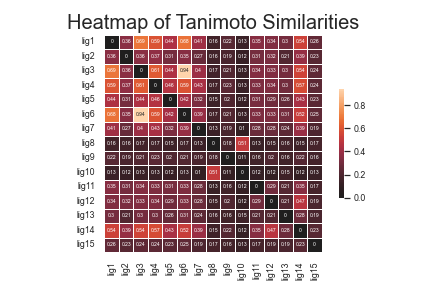
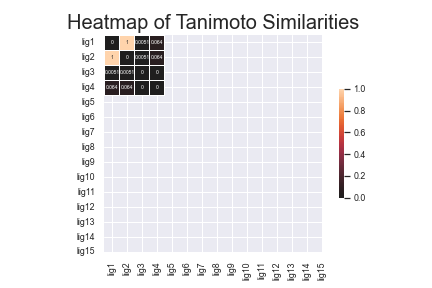
update

diff --git a/onlyGpu 2.py b/onlyGpu 2.py
@@ -23,7 +23,7 @@ np.set_printoptions(threshold=sys.maxsize)
 
 # Reading the input CSV file.
 
-ligands_df = pd.read_csv("smiles.csv" , index_col=0 )
+ligands_df = pd.read_csv("smiles1.1.csv" , index_col=0 )
 #print(ligands_df.head())
 
 
@@ -48,6 +48,7 @@ molecules[:10000]
 rdkit_gen = rdFingerprintGenerator.GetRDKitFPGenerator(maxPath=7)
 fgrps = [rdkit_gen.GetFingerprint(mol) for mol in molecules]
 
+print("fgrps",fgrps)
 
 # Calculating number of fingerprints
 nfgrps = len(fgrps)
@@ -78,14 +79,23 @@ fgrpsGpu = np.zeros((len(fgrps), fgrps[0].GetNumBits()), dtype=np.uint8)
 for l, fp in enumerate(fgrps):
     fgrpsGpu[l,:] = np.fromstring(fp.ToBitString(), dtype=np.uint8) - ord('0')
 '''
-
+"""
 fgrpsGpu = np.zeros((len(fgrps), fgrps[0].GetNumBits()), dtype=np.uint8)
 for l, fp in enumerate(fgrps):
     fgrpsGpu[l,:] = np.frombuffer(memoryview(fp.ToBitString().encode()), dtype=np.uint8) - ord('0')
+"""
 
+fgrpsGpu = []
+for l, fp in enumerate(fgrps):
+    fp_array = np.frombuffer(memoryview(fp.ToBitString().encode()), dtype=np.uint8) - ord('0')
+    fgrpsGpu.append(fp_array)
+
+fgrpsGpu = np.array(fgrpsGpu)
+
+print(len(fgrpsGpu[0]))
 
 #iteracion para cada particula
-tanimotoResult = np.zeros(cant+1, dtype=np.float32)
+tanimotoResult = np.zeros(cant, dtype=np.float32)
 
  
 ctx = cl.create_some_context()
@@ -105,6 +115,7 @@ f.close()
 prg = cl.Program(ctx, kernels).build()
 
 block_size = 256
+
 
 knl = prg.tanimoto_similarity(queue, (cant,), (block_size,), tanimotoArray, combinationsArray1, combinationsArray2, tanimotoResultArray)
 

diff --git a/onlyRdkit.py b/onlyRdkit.py
@@ -22,7 +22,7 @@ np.set_printoptions(threshold=sys.maxsize)
 
 # Reading the input CSV file.
 
-ligands_df = pd.read_csv("smiles2.0.csv" , index_col=0 )
+ligands_df = pd.read_csv("smiles1.1.csv" , index_col=0 )
 #print(ligands_df.head())
 
 # Creating molecules and storing in an array
@@ -36,7 +36,7 @@ molecules = []
 
 for _, smiles in ligands_df[[ "SMILES"]].itertuples():
     molecules.append((Chem.MolFromSmiles(smiles)))
-molecules[:10000]
+molecules[:4]
 
 
 # Creating fingerprints for all molecules
@@ -63,9 +63,9 @@ def pairwise_similarity(fingerprints_list):
     similarities = np.zeros((nfgrps, nfgrps))
 
     for i in range(1, nfgrps):
-            similarity = DataStructs.BulkTanimotoSimilarity(fgrps[i], fgrps[:i])
-            similarities[i, :i] = similarity
-            similarities[:i, i] = similarity
+        similarity = DataStructs.TanimotoSimilarity(fgrps[i], fgrps[i-1])
+        similarities[i, i-1] = similarity
+        similarities[i-1, i] = similarity
             
     return similarities
 

diff --git a/tanimotoComparation.py b/tanimotoComparation.py
@@ -25,7 +25,7 @@ np.set_printoptions(threshold=sys.maxsize)
 
 # Reading the input CSV file.
 
-ligands_df = pd.read_csv("smiles2.0.csv" , index_col=0 )
+ligands_df = pd.read_csv("smiles1.1.csv" , index_col=0 )
 #print(ligands_df.head())
 
 
@@ -41,7 +41,7 @@ molecules = []
 
 for _, smiles in ligands_df[[ "SMILES"]].itertuples():
     molecules.append((Chem.MolFromSmiles(smiles)))
-molecules[:10000]
+molecules[:4]
 
 
 # Creating fingerprints for all molecules
@@ -56,12 +56,12 @@ print("Number of fingerprints:", nfgrps)
 
 #fp_arr = np.zeros((1,))
 
-cambiar = 11
+cambiar = 1
 
 tiempoRDKIT = np.zeros(cambiar)
 tiempoGPU = np.zeros(cambiar)
 cantidad = np.zeros(cambiar)
-cantFgrps = 100
+cantFgrps = 4
 
 fgrpsAux = fgrps[0:cantFgrps]
 
@@ -225,7 +225,7 @@ for i in range(cambiar):
     fgrpsAux = fgrps[0:cantFgrps]
     
     print(i)
-    
+""" 
 print(tiempoRDKIT)
 print(tiempoGPU)
 
@@ -257,3 +257,4 @@ plt.legend()
 
 # Mostrar el gráfico
 plt.show()
+"""

diff --git a/onlyGpu.py b/onlyGpu.py
@@ -24,7 +24,7 @@ np.set_printoptions(threshold=sys.maxsize)
 
 # Reading the input CSV file.
 
-ligands_df = pd.read_csv("smiles2.0.csv" , index_col=0 )
+ligands_df = pd.read_csv("smiles1.1.csv" , index_col=0 )
 #print(ligands_df.head())
 
 
@@ -49,7 +49,7 @@ molecules[:10000]
 rdkit_gen = rdFingerprintGenerator.GetRDKitFPGenerator(maxPath=7)
 fgrps = [rdkit_gen.GetFingerprint(mol) for mol in molecules]
 
-fgrps = fgrps[0:10100]
+fgrps = fgrps[0:4]
 
 # Calculating number of fingerprints
 nfgrps = len(fgrps)

diff --git a/tanimoto_similarities.py b/tanimoto_similarities.py
@@ -22,7 +22,7 @@ np.set_printoptions(threshold=sys.maxsize)
 
 # Reading the input CSV file.
 
-ligands_df = pd.read_csv("smiles1.0.csv" , index_col=0 )
+ligands_df = pd.read_csv("smiles1.1.csv" , index_col=0 )
 #print(ligands_df.head())
 
 
